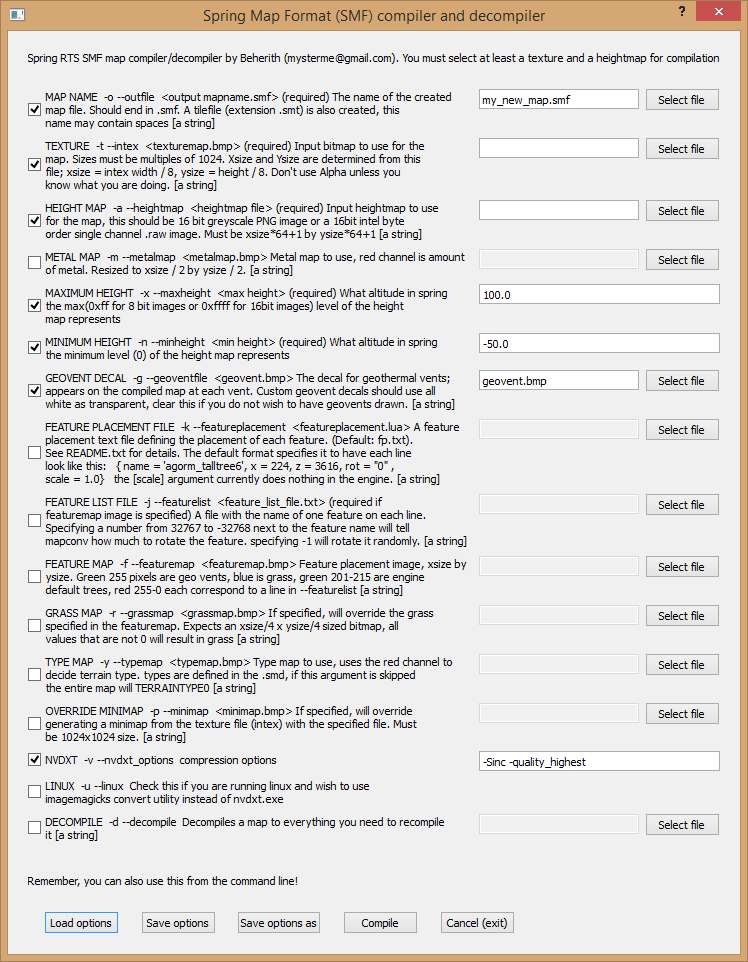
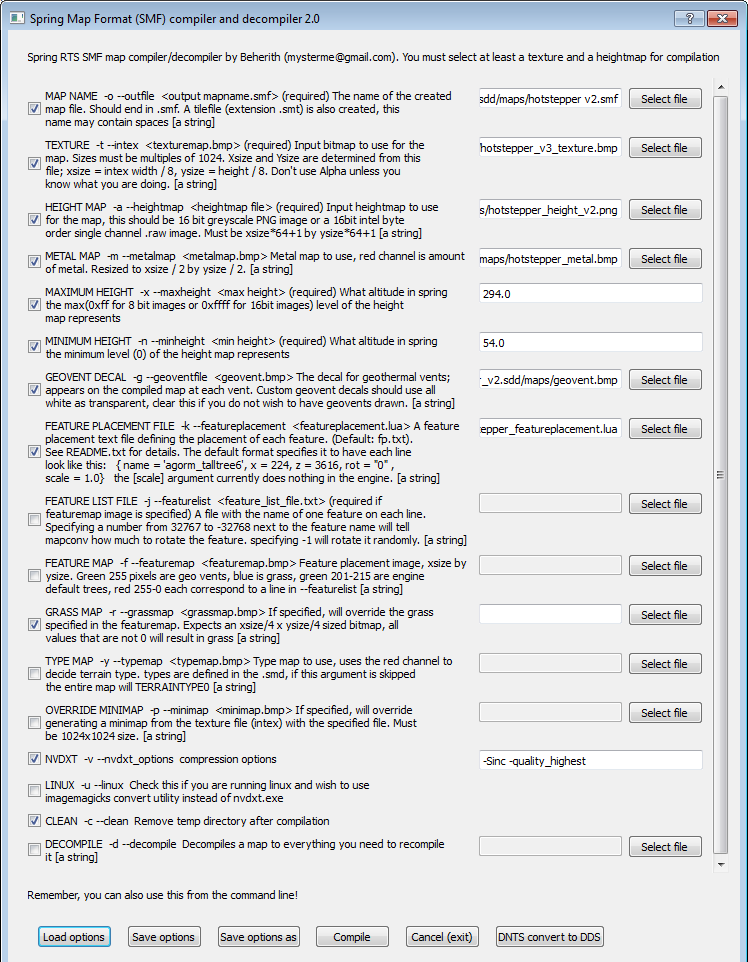
Add features to pymapconv
DXT5 compression
Fix geo vent handling
Fix smtfilename bugs
Add done beep

Changed region(s): [[0.0, 0.0, 1.0, 1.0]]

diff --git a/pymapconv.py b/pymapconv.py
@@ -12,7 +12,15 @@ import os
 import math
 import gc
 
-print 'Welcome to the SMF compiler/decompiler by Beherith (mysterme@gmail.com)'
+pymapconv_version = "2.0"
+print 'Welcome to the SMF compiler/decompiler by Beherith (mysterme@gmail.com) ' + pymapconv_version
+
+haswinsound = False
+try:
+	import winsound
+	haswinsound = True
+except:
+	pass
 
 SMFHeader_struct = struct.Struct('< 16s i i i i i i i f f i i i i i i i')
 '''	char magic[16];      ///< "spring map file\0"
@@ -194,7 +202,7 @@ def compileSMF(myargs):
 	print 'Compiling SMF with the following options:', myargs
 	if myargs.outfile == '':
 		print 'Please specify a name for the map!'
-		return
+		return -1
 
 	if '.smf' not in myargs.outfile:
 		myargs.outfile += '.smf'
@@ -211,7 +219,7 @@ def compileSMF(myargs):
 	springmapy = texh / 512
 	if (texh % 1024 != 0) or (texw % 1024 != 0):
 		print 'Error: Texture Image dimensions are not multiples of 1024! (%ix%i) Aborting' % (texw, texh)
-		return
+		return -1
 	else:
 		print 'Texture image %s seems to have the correct dimensions (%ix%i) for a spring map size of (%ix%i)' % (
 			myargs.intex, texw, texh, springmapx, springmapy)
@@ -232,7 +240,7 @@ def compileSMF(myargs):
 		if len(rawheight) != expectedheightmapsize:
 			print 'Error: Incorrect %s heightmap dimensions, file size should be exactly %i (%ix%i) for a spring map size of (%ix%i)' % (
 				myargs.heightmap, expectedheightmapsize, mapx + 1, mapy + 1, springmapx, springmapy)
-			return
+			return -1
 		else:
 			heights = struct.unpack('< ' + 'H' * (expectedheightmapsize / 2), rawheight)
 	elif '.png' in myargs.heightmap.lower():
@@ -243,17 +251,17 @@ def compileSMF(myargs):
 		if pngheight[0] * pngheight[1] != (mapx + 1) * (mapy + 1):
 			print 'Error: Incorrect %s heightmap dimensions of (%ix%i), image size should be exactly %ix%i for a spring map size of (%ix%i)' % (
 				myargs.heightmap, pngheight[0], pngheight[1], mapx + 1, mapy + 1, springmapx, springmapy)
-			return
+			return -1
 		if pngheight[3]['bitdepth'] != 16:
 			print 'Error: heightmap %s must be 16 bit depth, instead it is %i. Dont use .png for 8 bit heightmaps, use .bmp!' % (
 			myargs.heightmap, pngheight[3]['bitdepth'])
-			return
+			return -1
 		if pngheight[3]['greyscale'] == False:
 			print 'Error: heightmap %s must be greyscale!' % (myargs.heightmap)
-			return
+			return -1
 		if pngheight[3]['alpha'] == True:
 			print 'Error: heightmap %s must not contain an alpha channel!' % (myargs.heightmap)
-			return
+			return -1
 
 		# do a check to make sure the full 16-bit range of heights are used!
 		heightlevelshist = {}
@@ -276,7 +284,7 @@ def compileSMF(myargs):
 		if otherheight.size != (mapx + 1, mapy + 1):
 			print 'Error: Incorrect %s heightmap dimensions of (%ix%i), image size should be exactly %ix%i for a spring map size of (%ix%i)' % (
 				myargs.heightmap, otherheight.size[0], otherheight.size[1], mapx + 1, mapy + 1, springmapx, springmapy)
-			return
+			return -1
 		for row in range(otherheight.size[1]):
 			for col in range(otherheight.size[0]):
 				heights.append(sum(otherheight_pixels[col, row]) * 256 / 3)
@@ -349,7 +357,7 @@ def compileSMF(myargs):
 		if featuremap.size != (mapx, mapy):
 			print 'Error: Incorrect %s featuremap dimensions of (%ix%i), image size should be exactly %ix%i for a spring map size of (%ix%i)' % (
 				myargs.featuremap, featuremap.size[0], featuremap.size[1], mapx, mapy, springmapx, springmapy)
-			return
+			return -1
 		featuremap_pixels = featuremap.load()
 		for row in range(featuremap.size[1]):
 			for col in range(featuremap.size[0]):
@@ -392,7 +400,7 @@ def compileSMF(myargs):
 		if grassmap.size != (mapx / 4, mapy / 4):
 			print 'Error: Incorrect %s grassmap dimensions of (%ix%i), image size should be exactly %ix%i for a spring map size of (%ix%i)' % (
 				myargs.grassmap, grassmap.size[0], grassmap.size[1], mapx / 4, mapy / 4, springmapx, springmapy)
-			return
+			return -1
 		grassmap_pixels = grassmap.load()
 		for row in range(grassmap.size[1]):
 			for col in range(grassmap.size[0]):
@@ -415,17 +423,17 @@ def compileSMF(myargs):
 				geovent_pixel_y = 0
 				print 'Drawing a geothermal vent %s at X:%d ; Z:%d'%(geoventimg,feature['z'], feature['x'])
 				for row in range(int(feature['z'] - geoventimg.size[1] / 2), int(feature['z'] + geoventimg.size[1] / 2), 1):
-					geovent_pixel_y += 1
 					geovent_pixel_x = 0
-					for col in range(int(feature['x'] - geoventimg.size[0] / 2), int(feature['z'] + geoventimg.size[0] / 2), 1):
-						geovent_pixel_x += 1
+					for col in range(int(feature['x'] - geoventimg.size[0] / 2), int(feature['x'] + geoventimg.size[0] / 2), 1):
+						
 						try:
 							if sum(geoventimg_pixels[geovent_pixel_x, geovent_pixel_y]) != 3 * 255:
 								intex_pixels[col, row] = geoventimg_pixels[geovent_pixel_x, geovent_pixel_y]
 						except IndexError:
 							print 'Warning: Failed to draw a geovent image pixel onto the main texture at %ix%i from geoventimg %s %dx%d' % (
 								col, row, myargs.geoventfile, geovent_pixel_x,geovent_pixel_y)
-
+						geovent_pixel_x += 1
+					geovent_pixel_y += 1
 	typemap = [0] * (mapx / 2) * (mapy / 2)
 	if myargs.typemap:
 		print 'Loading typemap', myargs.typemap
@@ -433,7 +441,7 @@ def compileSMF(myargs):
 		if typemap_img.size != (mapx / 2, mapy / 2):
 			print 'Error: Incorrect %s typemap dimensions of (%ix%i), image size should be exactly %ix%i for a spring map size of (%ix%i)' % (
 				myargs.typemap, typemap_img.size[0], typemap_img.size[1], mapx / 2, mapy / 2, springmapx, springmapy)
-			return
+			return -1
 
 		typemap_img_pixel = typemap_img.load()
 		for row in range(typemap_img.size[1]):
@@ -496,10 +504,10 @@ def compileSMF(myargs):
 			sourceoffset += 524288 / (1 << (i * 2))
 		return outtile
 	
-	minimapfilename = os.path.join('temp', 'mini.bmp') #else we can get spurious alpha pixels in minimap
+	minimapfilename = os.path.join('temp', 'minimap.bmp') #else we can get spurious alpha pixels in minimap
 	compressionmethod = 'dxt1c'
 	if intex.mode == 'RGBA':
-		minimapfilename = os.path.join('temp', 'mini.tiff')
+		minimapfilename = os.path.join('temp', 'minimap.tiff')
 		compressionmethod = 'dxt1a'
 	print 'Creating minimap', minimapfilename,'using the command:',
 	if myargs.minimap:
@@ -508,15 +516,15 @@ def compileSMF(myargs):
 		mini = intex.resize((1024, 1024), Image.ANTIALIAS)
 		mini.save(minimapfilename)
 	if myargs.linux:
-		cmd = 'convert -format dds -define dds:mipmaps=8 -define dds:compression=dxt1 %s temp/mini.dds' % (
+		cmd = 'convert -format dds -define dds:mipmaps=8 -define dds:compression=dxt1 %s temp/minimap.dds' % (
 		minimapfilename)
 		print cmd
 		os.system(cmd)
 	else:
-		cmd = 'nvdxt.exe -file %s -%s -nmips 9 -output temp/mini.dds -Sinc -quality_highest' % (minimapfilename,compressionmethod)
+		cmd = 'nvdxt.exe -file %s -%s -nmips 9 -output temp/minimap.dds -Sinc -quality_highest' % (minimapfilename,compressionmethod)
 		print cmd
 		os.system(cmd)
-	minimapdata = open(os.path.join('temp', 'mini.dds'), 'rb').read()[128:]
+	minimapdata = open(os.path.join('temp', 'minimap.dds'), 'rb').read()[128:]
 
 	intex = None
 	gc.collect()
@@ -541,15 +549,18 @@ def compileSMF(myargs):
 					if tilepos in tileindices:
 						print 'something is very wrong here with tilepos, aborting compilation'
 						print x, y, tilex, tiley, tileindex
-						return
+						return -1
 					tileindices[tilepos] = tilehash[tile]
 			ddsfile.close()
 	# TODO: tilehash is larger than max tiles sometimes!
 	print 'Lossless compression of 32x32 tiles: %i tiles used of %i maximum' % (len(tilehash), 256 * springmapx * springmapy)
 
-	smtfilename = myargs.outfile.replace('.smf', '.smt')
-	print 'Writing tile file ',smtfilename
-	tilefile = open(smtfilename, 'wb')
+	smtfilepath = myargs.outfile.replace('.smf', '.smt')
+	smtfilename = smtfilepath
+	if os.path.sep in smtfilepath:
+		smtfilename = smtfilepath.rpartition(os.path.sep)[2]
+	print 'Writing tile file ',smtfilepath,' linked as', smtfilename
+	tilefile = open(smtfilepath, 'wb')
 	tilefile.write(TileFileHeader_struct.pack('spring tilefile\0', 1, len(tilehash), 32, 1))
 	inversetiledict = {}
 	for tile, index in tilehash.iteritems():
@@ -619,14 +630,16 @@ def compileSMF(myargs):
 
 	smffile.close()
 
-	print 'Cleaning up temp dir...'
-	if myargs.linux:
-		#os.system('rm -r ./temp')
-		pass
-	else:
-		#os.system('del /Q temp')
-		pass
+	if myargs.clean:
+		print 'Cleaning up temp dir...'
+		if myargs.linux:
+			os.system('rm -r ./temp')
+			pass
+		else:
+			os.system('del /Q temp')
+			pass
 	print 'All Done! You may now close the main window to exit the program :)'
+	return 0
 
 
 class SMFMapDecompiler:
@@ -915,6 +928,9 @@ if __name__ == "__main__":
 	parser.add_argument('-u', '--linux',
 						help='|LINUX| Check this if you are running linux and wish to use imagemagicks convert utility instead of nvdxt.exe',
 						default=False, action='store_true')
+	parser.add_argument('-c', '--clean',
+						help='|CLEAN| Remove temp directory after compilation',
+						default=True, action='store_true')
 	# parser.add_argument('-q', '--quick', help='|FAST| Quick compilation (lower texture quality)', action='store_true') //not implemented yet
 	parser.add_argument('-d', '--decompile', help='|DECOMPILE| Decompiles a map to everything you need to recompile it', type=str)
 	parser.description = 'Spring RTS SMF map compiler/decompiler by Beherith (mysterme@gmail.com). You must select at least a texture and a heightmap for compilation'
@@ -926,8 +942,14 @@ if __name__ == "__main__":
 		print (parsed_args)
 		if parsed_args.decompile != '' and parsed_args.decompile != None:
 			mymap = SMFMapDecompiler(parsed_args.decompile)
-		else:
-			compileSMF(parsed_args)
+		else:				
+			compilesuccess = compileSMF(parsed_args)
+			if haswinsound and compilesuccess == 0:
+				winsound.Beep(220,100)
+				winsound.Beep(293,100)
+			if haswinsound and compilesuccess == -1:
+				winsound.Beep(220,100)
+				winsound.Beep(164,100)
 	#print 'sys.argv:',sys.argv
 	if len(sys.argv) > 1: # if we got command line, then just run without gui
 		okbuttonhandler(parser)
@@ -938,7 +960,7 @@ if __name__ == "__main__":
 		app = QtGui.QApplication(sys.argv)
 		a = argparseui.ArgparseUi(parser, left_label_alignment=True, use_scrollbars=True, use_save_load_button=True,
 								  ok_button_handler=okbuttonhandler,
-								  window_title="Spring Map Format (SMF) compiler and decompiler")
+								  window_title="Spring Map Format (SMF) compiler and decompiler "+pymapconv_version)
 		a.show()
 		app.exec_()
 		print ("Ok" if a.result() == 1 else "Cancel")
@@ -948,7 +970,13 @@ if __name__ == "__main__":
 			if parsed_args.decompile != '' and parsed_args.decompile != None:
 				mymap = SMFMapDecompiler(parsed_args.decompile)
 			else:
-				compileSMF(parsed_args)
+				compilesuccess = compileSMF(parsed_args)
+				if haswinsound and compilesuccess == 0:
+					winsound.Beep(220,100)
+					winsound.Beep(293,100)
+				if haswinsound and compilesuccess == -1:
+					winsound.Beep(220,100)
+					winsound.Beep(164,100)
 		else:
 			parsed_args = None
 

diff --git a/argparseui.py b/argparseui.py
@@ -17,6 +17,7 @@
 
 import textwrap
 import argparse
+import os
 
 from PyQt4 import QtCore, QtGui
 
@@ -67,7 +68,7 @@ _OR_MORE = {
 class ArgparseUi(QtGui.QDialog):
     def __init__(self, parser, use_scrollbars=False, remove_defaults_from_helptext=False,
                  helptext_default=' [default=%(default)s]', use_save_load_button=False, window_title="Make your choice", 
-                 left_label_alignment=None, ok_button_handler=None, cancel_button_handler=None, parent=None):
+                 left_label_alignment=None, ok_button_handler=None, cancel_button_handler=None, dnts_button_handler = None, parent=None):
         super(ArgparseUi, self).__init__(parent)
         self.setWindowTitle(window_title)
         self.parser = parser
@@ -76,6 +77,7 @@ class ArgparseUi(QtGui.QDialog):
         self.helptext_default = helptext_default
         self.use_save_load_button = use_save_load_button
         self.ok_button_handler = ok_button_handler # function that takes two options: the ArgparseUi instance and "parsed options"
+        self.dnts_button_handler = dnts_button_handler # function that takes two options: the ArgparseUi instance and "parsed options"
         self.cancel_button_handler= cancel_button_handler # function that takes one option: the ArgparseUi instance
         self.commandLineArgumentCreators = []
         self.filename = None
@@ -110,11 +112,16 @@ class ArgparseUi(QtGui.QDialog):
           self.SaveAsButton = self.addButton("Save options as")
 
         self.OkButton = self.addButton("Compile")
+        self.OkButton.setToolTip("Start compilation/decompilation")
         self.CancelButton= self.addButton("Cancel (exit)")
 
+        self.DNTSButton = self.addButton("Convert image to DDS (DNTS)")
+        self.DNTSButton.setToolTip("Choose any image and have NVDXT convert it to a DXT5 DDS file for inclusion in maps")
         self.buttonsLayout.addSpacerItem(QtGui.QSpacerItem(20, 1, QtGui.QSizePolicy.Expanding, QtGui.QSizePolicy.Minimum))
     
         self.OkButton.clicked.connect(self.onOk)
+        self.DNTSButton.clicked.connect(self.onDNTS)
+        
         self.CancelButton.clicked.connect(self.onCancel)
         if self.use_save_load_button:
           self.LoadButton.clicked.connect(self.onLoad)
@@ -657,8 +664,20 @@ class ArgparseUi(QtGui.QDialog):
                 self.ok_button_handler(self)
         else:
             mutexes = "\n".join([",".join(o) for o in offensive_options])
-            QtGui.QMessageBox.question(self, 'Validation error', "The following options are mutually exclusive:\n{0}".format(mutexes), QtGui.QMessageBox.Ok, QtGui.QMessageBox.Ok)
-            
+            QtGui.QMessageBox.question(self, 'Validation error', "The following options are mutually exclusive:\n{0}".format(mutexes), QtGui.QMessageBox.Ok, QtGui.QMessageBox.Ok)        
+
+    def onDNTS(self):
+        """
+        handle DNTS button pressed
+        """
+        filename = QtGui.QFileDialog.getOpenFileName() # has / as pathsep
+        if filename:
+            filename = str(filename)
+            outputfilename = filename.rpartition('/')[2].rpartition('.')[0]+'.dds'
+            nvdxtcommand = 'nvdxt.exe -file "%s" -dxt5 -Sinc -quality_highest -output "%s"'%(filename,outputfilename)
+            print("DNTS Conversion:",nvdxtcommand)
+            os.system(nvdxtcommand)    
+            print("Done")
     def onCancel(self):
         """
         handle cancel button pressed
